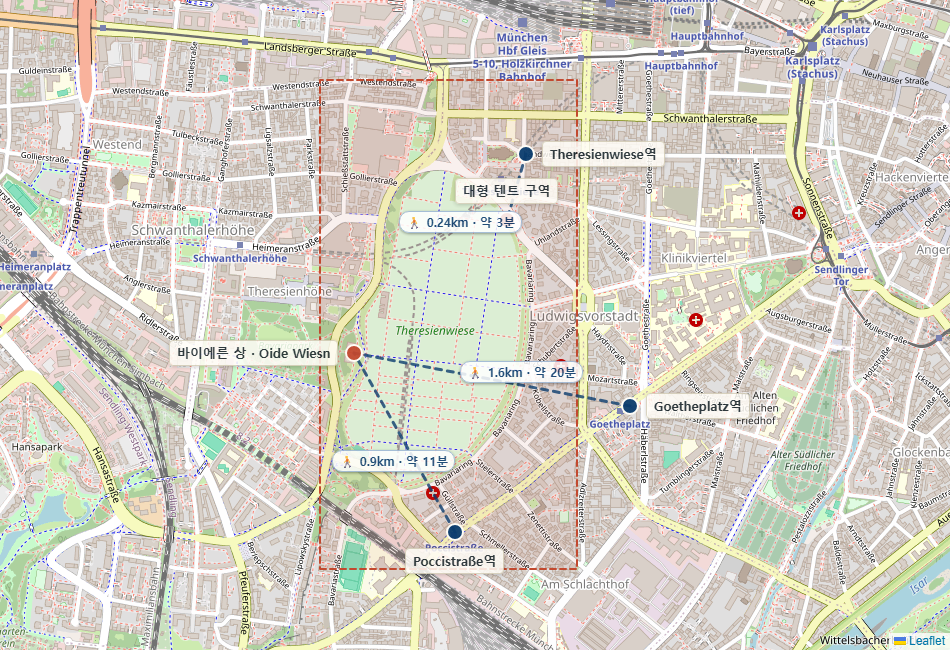
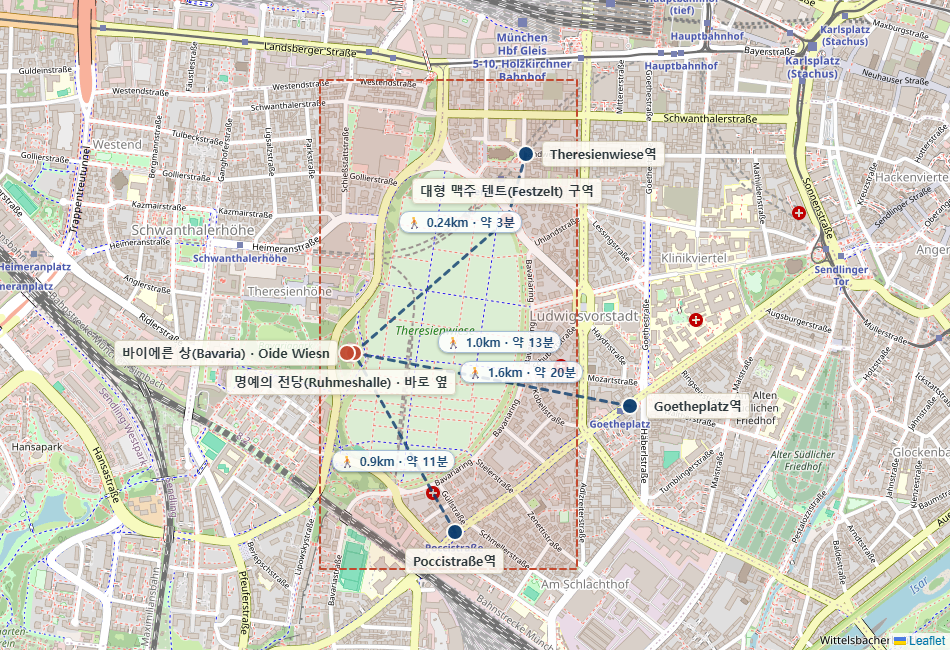
Deploy Theresienwiese map with Festzelt/Ruhmeshalle markers
Copy over the previously-rendered map update (Bavaria/Ruhmeshalle/
Festzelt-tentArea distances) that hadn't been deployed yet, and
mention Ruhmeshalle in the layout caption alongside Bavaria.

diff --git a/germany-roadtrip-planner.html b/germany-roadtrip-planner.html
@@ -1940,7 +1940,7 @@ document.addEventListener('DOMContentLoaded', function(){
       </div>
       <div style="grid-column:1/-1;margin:0 0 1rem;">
         <img src="images/routes/theresienwiese.png" alt="테레지엔비제 축제장 배치도" loading="lazy" style="width:100%;height:auto;border-radius:6px;display:block;">
-        <p style="font-size:0.78rem;color:var(--ink-soft);margin-top:0.4rem;">🗺 <b>축제장 배치</b> — 대형 텐트 구역은 중앙~북쪽에 모여 있고, 전통 방식 축제인 Oide Wiesn 구역은 남쪽 바이에른 상(Bavaria) 인근에 따로 있습니다. <b>Goetheplatz</b>역 또는 <b>Poccistraße</b>역 하차 시 남쪽에서 접근해 바이에른 상·Oide Wiesn 구역이 먼저 나오고, <b>Theresienwiese</b>역 하차 시 북쪽 텐트 구역이 바로 나옵니다. · <a href="https://www.google.com/maps/search/?api=1&query=Theresienwiese+Muenchen" target="_blank" rel="noopener">구글 지도에서 보기</a></p>
+        <p style="font-size:0.78rem;color:var(--ink-soft);margin-top:0.4rem;">🗺 <b>축제장 배치</b> — 대형 텐트 구역은 중앙~북쪽에 모여 있고, 전통 방식 축제인 Oide Wiesn 구역은 남쪽 바이에른 상(Bavaria)·명예의 전당(Ruhmeshalle) 인근에 따로 있습니다. <b>Goetheplatz</b>역 또는 <b>Poccistraße</b>역 하차 시 남쪽에서 접근해 바이에른 상·Oide Wiesn 구역이 먼저 나오고, <b>Theresienwiese</b>역 하차 시 북쪽 텐트 구역이 바로 나옵니다. · <a href="https://www.google.com/maps/search/?api=1&query=Theresienwiese+Muenchen" target="_blank" rel="noopener">구글 지도에서 보기</a></p>
       </div>
       </div>
       <p style="font-size:0.78rem;color:var(--ink-soft);margin:1rem 0 0.6rem;">아래는 시간이 더 있을 때(반나절 코스엔 다소 빠듯) 참고할 뮌헨 명소입니다 — 궁전·미술관은 각각 1.5~2시간 이상 필요합니다.</p>

diff --git a/index.html b/index.html
@@ -1940,7 +1940,7 @@ document.addEventListener('DOMContentLoaded', function(){
       </div>
       <div style="grid-column:1/-1;margin:0 0 1rem;">
         <img src="images/routes/theresienwiese.png" alt="테레지엔비제 축제장 배치도" loading="lazy" style="width:100%;height:auto;border-radius:6px;display:block;">
-        <p style="font-size:0.78rem;color:var(--ink-soft);margin-top:0.4rem;">🗺 <b>축제장 배치</b> — 대형 텐트 구역은 중앙~북쪽에 모여 있고, 전통 방식 축제인 Oide Wiesn 구역은 남쪽 바이에른 상(Bavaria) 인근에 따로 있습니다. <b>Goetheplatz</b>역 또는 <b>Poccistraße</b>역 하차 시 남쪽에서 접근해 바이에른 상·Oide Wiesn 구역이 먼저 나오고, <b>Theresienwiese</b>역 하차 시 북쪽 텐트 구역이 바로 나옵니다. · <a href="https://www.google.com/maps/search/?api=1&query=Theresienwiese+Muenchen" target="_blank" rel="noopener">구글 지도에서 보기</a></p>
+        <p style="font-size:0.78rem;color:var(--ink-soft);margin-top:0.4rem;">🗺 <b>축제장 배치</b> — 대형 텐트 구역은 중앙~북쪽에 모여 있고, 전통 방식 축제인 Oide Wiesn 구역은 남쪽 바이에른 상(Bavaria)·명예의 전당(Ruhmeshalle) 인근에 따로 있습니다. <b>Goetheplatz</b>역 또는 <b>Poccistraße</b>역 하차 시 남쪽에서 접근해 바이에른 상·Oide Wiesn 구역이 먼저 나오고, <b>Theresienwiese</b>역 하차 시 북쪽 텐트 구역이 바로 나옵니다. · <a href="https://www.google.com/maps/search/?api=1&query=Theresienwiese+Muenchen" target="_blank" rel="noopener">구글 지도에서 보기</a></p>
       </div>
       </div>
       <p style="font-size:0.78rem;color:var(--ink-soft);margin:1rem 0 0.6rem;">아래는 시간이 더 있을 때(반나절 코스엔 다소 빠듯) 참고할 뮌헨 명소입니다 — 궁전·미술관은 각각 1.5~2시간 이상 필요합니다.</p>
